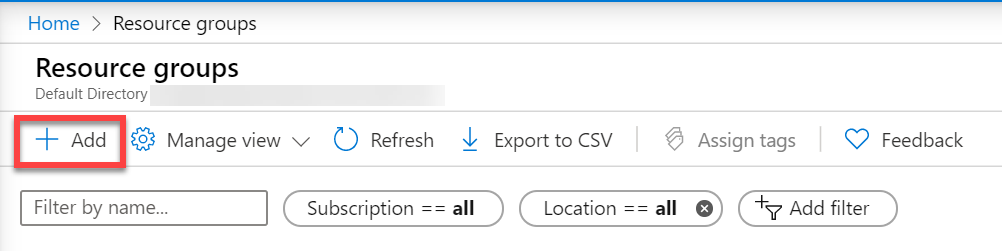
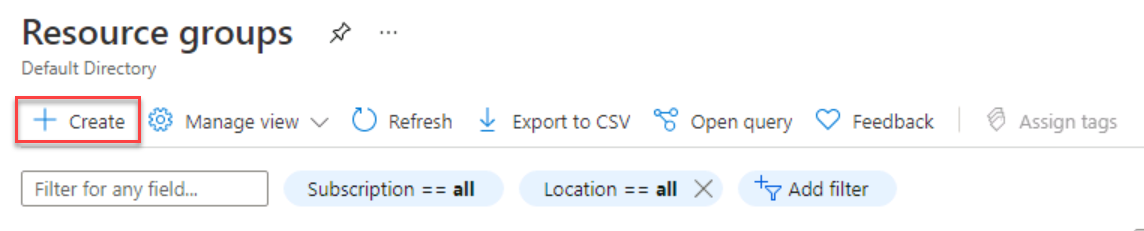
Change add to create.

Changed region(s): [[0.0, 0.0, 1.0, 0.697], [0.0, 0.7273, 0.8972, 0.9091], [0.99, 0.9697, 1.0, 1.0]]

diff --git a/Instructions/Labs/DP-300_01_lab.md b/Instructions/Labs/DP-300_01_lab.md
@@ -88,7 +88,7 @@ The main tasks for this exercise are as follows:
 	The Resource groups blade will list all Azure resource groups within your selected subscriptions. 
 
 
-7. On the Resource groups blade, select the Add button. 
+7. On the Resource groups blade, select the Create button. 
 
 	![Picture 11](../images/dp-3300-module-11-lab-07.png)
 
